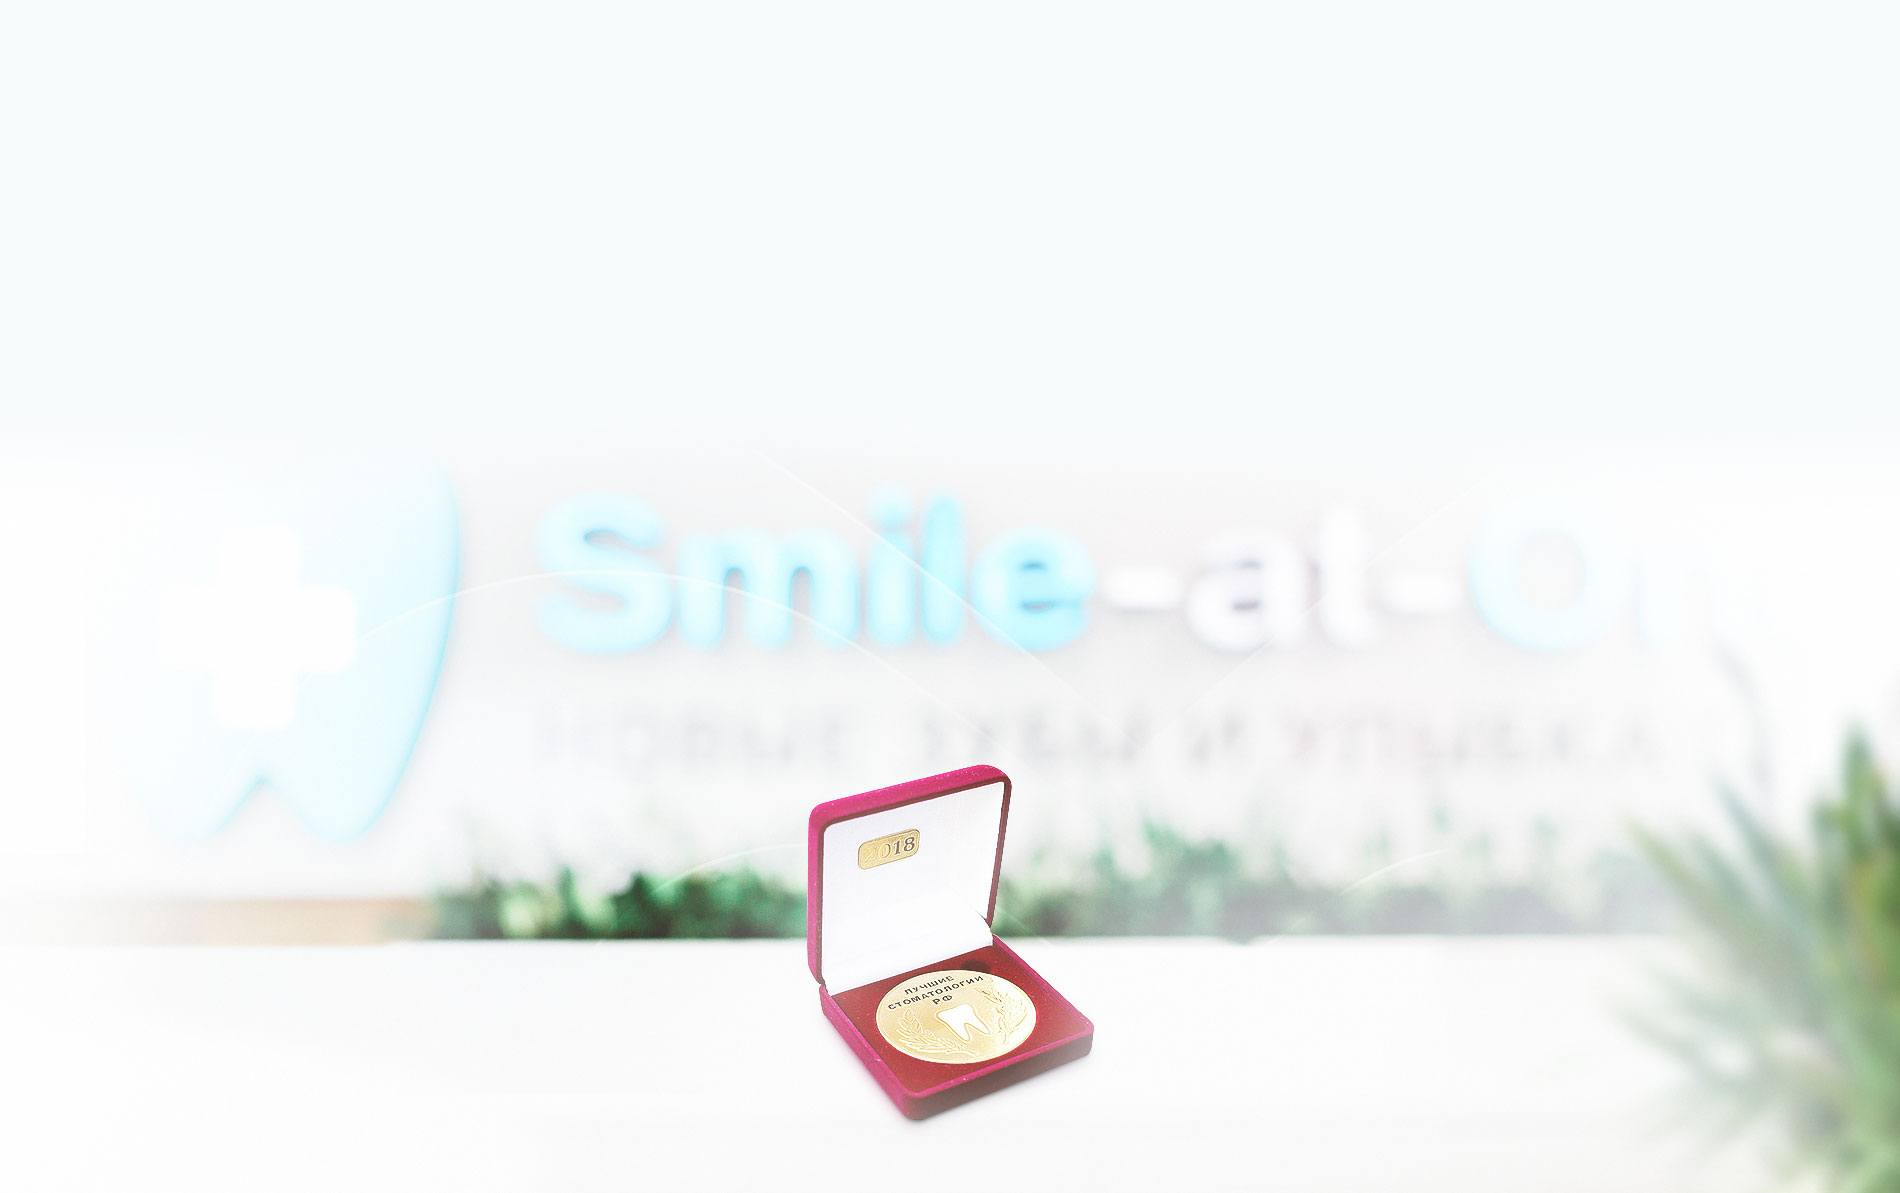
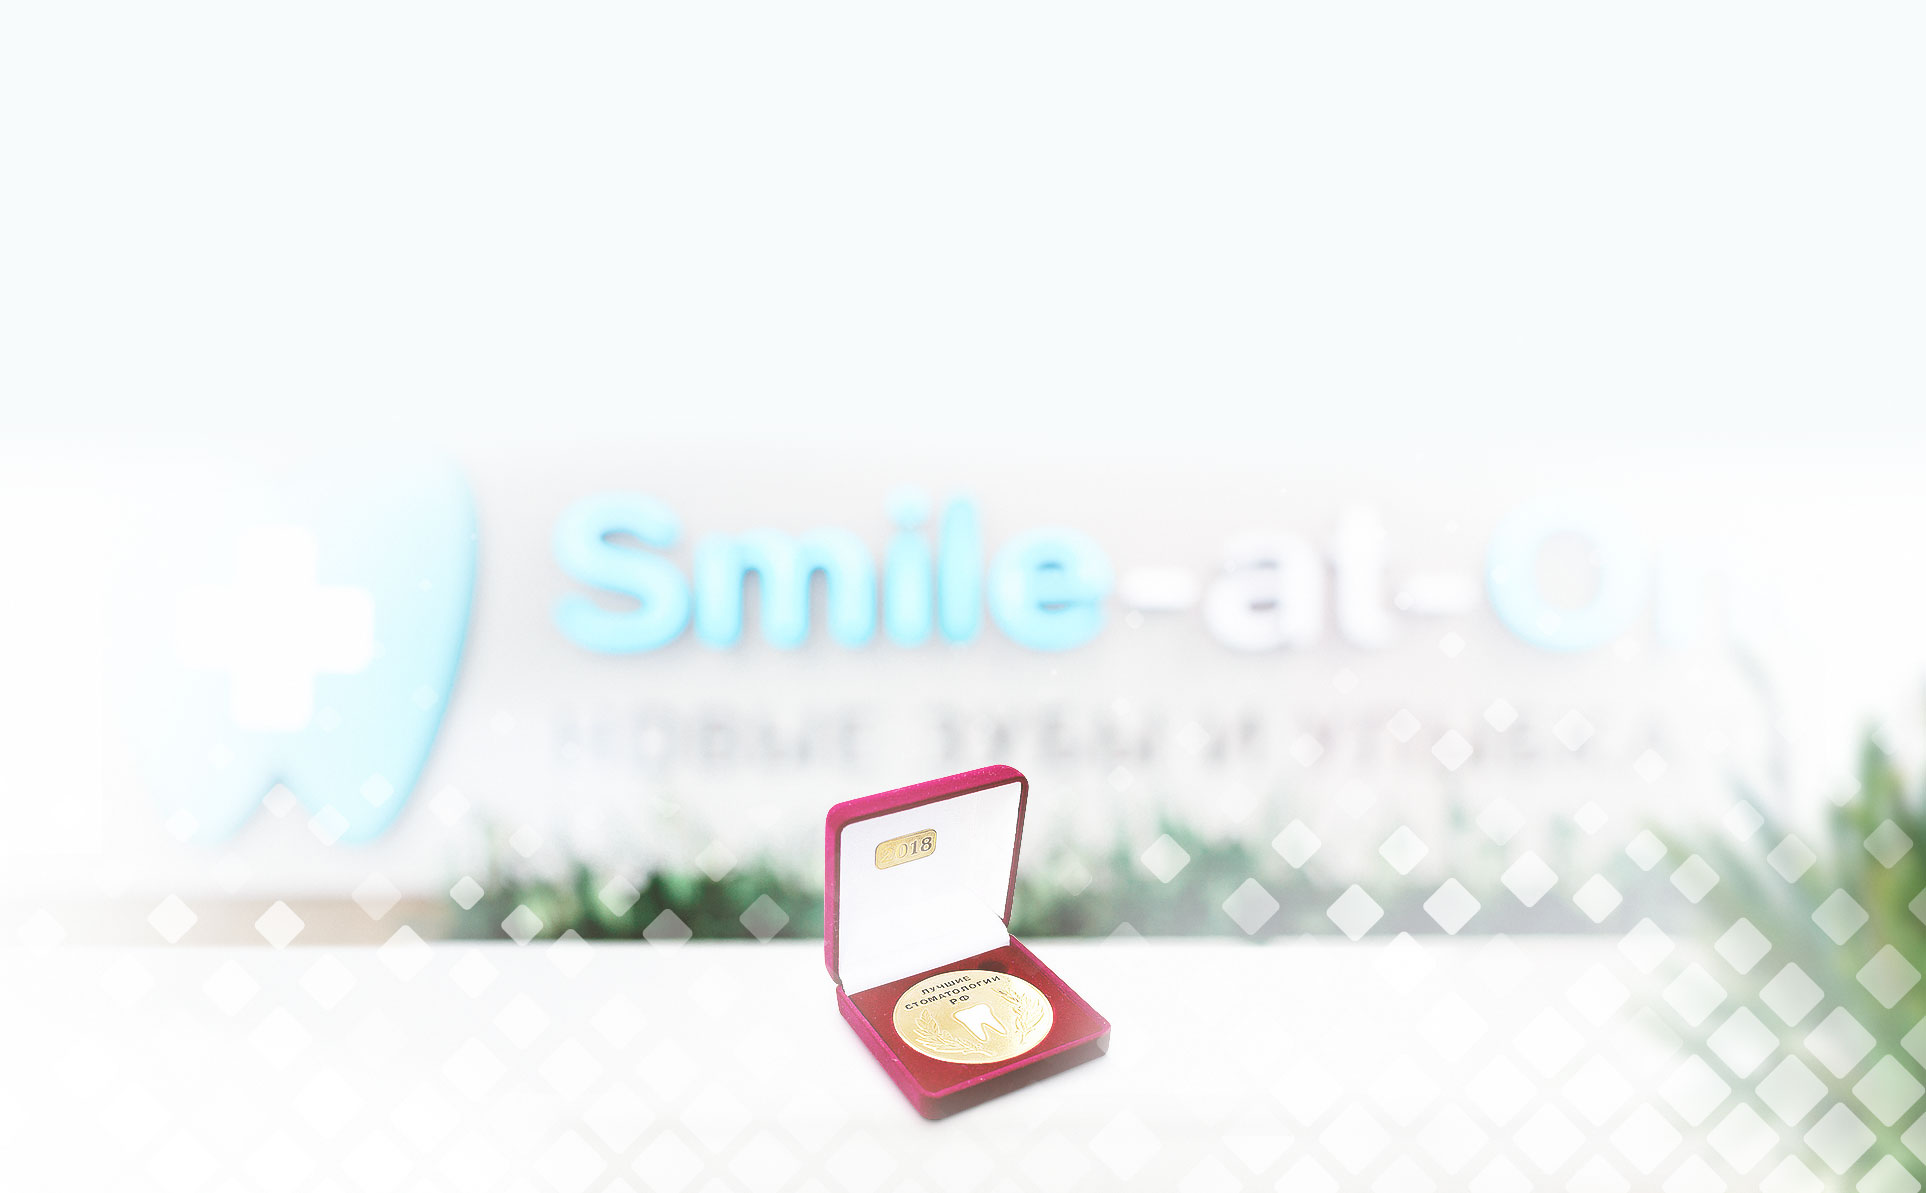
2.5 - new home page bg-s

diff --git a/css/main.css b/css/main.css
@@ -9080,7 +9080,7 @@
   background-repeat: no-repeat;
   background-position: center top;
   background-size: cover;
-  min-height: 780px;
+  min-height: 776px;
   padding-top: 90px;
   padding-bottom: 130px;
   overflow: hidden;
@@ -9107,6 +9107,7 @@
     border-radius: 0;
     padding-bottom: 20px;
     background: #f8fbfc;
+    background-image: none !important;
     min-height: initial;
   }
 }

diff --git a/sass/pages/_home.scss b/sass/pages/_home.scss
@@ -1029,7 +1029,7 @@
 	background-repeat: no-repeat;
 	background-position: center top;
 	background-size: cover;
-	min-height: 780px;
+	min-height: 776px;
 	padding-top: 90px;
 	padding-bottom: 130px;
 	overflow: hidden;
@@ -1047,6 +1047,7 @@
 		border-radius: 0;
 		padding-bottom: 20px;
 		background: $bg-color;
+		background-image: none !important;
 		min-height: initial;
 	}
 

diff --git a/js/main.js b/js/main.js
@@ -465,8 +465,8 @@ $(function($){
 	$(".stars-rating").starRating({
 		useFullStars: true,
 		emptyColor: '#cedae1',
-		hoverColor: '#72dbd4',
-		activeColor: '#72dbd4',
+		hoverColor: '#239ca3',
+		activeColor: '#239ca3',
 		ratedColor: '#239ca3',
 		disableAfterRate: false,
 		starSize: 24,

diff --git a/reviews.php b/reviews.php
@@ -87,18 +87,19 @@
 <section class="s-reviews-list">
 	<div class="container">
 		<div class="h1 sec-title">Все отзывы <span class="reviews-title-counter">1765</span></div>
+
 		<div class="row review-intro-list">
 			<div class="grid-4 grid-6_l grid-12_s review-intro-wrap">
 				<div class="review-intro review-intro--video">
-					<a href="#" class="review-intro__title">«Трансформация улыбки»: интервью Ольги Пыховой после первой коррекции протеза</a>
-					<a href="#" class="review-intro__screen">
+					<a href="/reviews-video.php" class="review-intro__title">«Трансформация улыбки»: интервью Ольги Пыховой после первой коррекции протеза</a>
+					<a href="/reviews-video.php" class="review-intro__screen">
 						<img src="/img/reviews/video-screen.jpg" alt="1">
 						<button class="play-btn"></button>
 					</a>
 					<footer class="review-intro__footer">
 						<time datetime="24-01-2019" class="review-intro__time">24.01.2019</time>
 						<div class="review-intro__type review-intro__type--video">Видеоотзыв</div>
-						<a href="#" class="review-intro__more">Стоимость и сроки</a>
+						<a href="/reviews-video.php" class="review-intro__more">Стоимость и сроки</a>
 					</footer>
 				</div>
 			</div>
@@ -129,15 +130,15 @@
 			</div>
 			<div class="grid-4 grid-6_l grid-12_s review-intro-wrap">
 				<div class="review-intro review-intro--video">
-					<a href="#" class="review-intro__title">«Трансформация улыбки»: интервью Ольги Пыховой после первой коррекции протеза</a>
-					<a href="#" class="review-intro__screen">
+					<a href="/reviews-video.php" class="review-intro__title">«Трансформация улыбки»: интервью Ольги Пыховой после первой коррекции протеза</a>
+					<a href="/reviews-video.php" class="review-intro__screen">
 						<img src="/img/reviews/video-screen.jpg" alt="1">
 						<button class="play-btn"></button>
 					</a>
 					<footer class="review-intro__footer">
 						<time datetime="24-01-2019" class="review-intro__time">24.01.2019</time>
 						<div class="review-intro__type review-intro__type--video">Видеоотзыв</div>
-						<a href="#" class="review-intro__more">Стоимость и сроки</a>
+						<a href="/reviews-video.php" class="review-intro__more">Стоимость и сроки</a>
 					</footer>
 				</div>
 			</div>
@@ -157,27 +158,27 @@
 			</div>
 			<div class="grid-4 grid-6_l grid-12_s review-intro-wrap">
 				<div class="review-intro review-intro--hand">
-					<a href="#" class="review-intro__paper">
+					<a href="/img/reviews/handwritten.jpg" class="review-intro__paper fancy">
 						<img src="/img/reviews/handwritten.jpg" alt="1">
 					</a>
 					<footer class="review-intro__footer">
 						<time datetime="24-01-2019" class="review-intro__time">24.01.2019</time>
 						<div class="review-intro__type review-intro__type--hand">Рукописный отзыв</div>
-						<a href="#" class="review-intro__more">Смотреть</a>
+						<a href="/img/reviews/handwritten.jpg" class="review-intro__more fancy">Смотреть</a>
 					</footer>
 				</div>
 			</div>
 			<div class="grid-4 grid-6_l grid-12_s review-intro-wrap">
 				<div class="review-intro review-intro--video">
-					<a href="#" class="review-intro__title">«Трансформация улыбки»: интервью Ольги Пыховой после первой коррекции протеза</a>
-					<a href="#" class="review-intro__screen">
+					<a href="/reviews-video.php" class="review-intro__title">«Трансформация улыбки»: интервью Ольги Пыховой после первой коррекции протеза</a>
+					<a href="/reviews-video.php" class="review-intro__screen">
 						<img src="/img/reviews/video-screen.jpg" alt="1">
 						<button class="play-btn"></button>
 					</a>
 					<footer class="review-intro__footer">
 						<time datetime="24-01-2019" class="review-intro__time">24.01.2019</time>
 						<div class="review-intro__type review-intro__type--video">Видеоотзыв</div>
-						<a href="#" class="review-intro__more">Стоимость и сроки</a>
+						<a href="/reviews-video.php" class="review-intro__more">Стоимость и сроки</a>
 					</footer>
 				</div>
 			</div>
@@ -208,29 +209,29 @@
 			</div>
 			<div class="grid-4 grid-6_l grid-12_s review-intro-wrap">
 				<div class="review-intro review-intro--video">
-					<a href="#" class="review-intro__title">«Трансформация улыбки»</a>
-					<a href="#" class="review-intro__screen">
+					<a href="/reviews-video.php" class="review-intro__title">«Трансформация улыбки»: интервью Ольги Пыховой после первой коррекции протеза</a>
+					<a href="/reviews-video.php" class="review-intro__screen">
 						<img src="/img/reviews/video-screen.jpg" alt="1">
 						<button class="play-btn"></button>
 					</a>
 					<footer class="review-intro__footer">
 						<time datetime="24-01-2019" class="review-intro__time">24.01.2019</time>
 						<div class="review-intro__type review-intro__type--video">Видеоотзыв</div>
-						<a href="#" class="review-intro__more">Стоимость и сроки</a>
+						<a href="/reviews-video.php" class="review-intro__more">Стоимость и сроки</a>
 					</footer>
 				</div>
 			</div>
 			<div class="grid-4 grid-6_l grid-12_s review-intro-wrap">
 				<div class="review-intro review-intro--video">
-					<a href="#" class="review-intro__title">«Трансформация улыбки»: интервью Ольги Пыховой после первой коррекции протеза</a>
-					<a href="#" class="review-intro__screen">
+					<a href="/reviews-video.php" class="review-intro__title">«Трансформация улыбки»: интервью Ольги Пыховой после первой коррекции протеза</a>
+					<a href="/reviews-video.php" class="review-intro__screen">
 						<img src="/img/reviews/video-screen.jpg" alt="1">
 						<button class="play-btn"></button>
 					</a>
 					<footer class="review-intro__footer">
 						<time datetime="24-01-2019" class="review-intro__time">24.01.2019</time>
 						<div class="review-intro__type review-intro__type--video">Видеоотзыв</div>
-						<a href="#" class="review-intro__more">Стоимость и сроки</a>
+						<a href="/reviews-video.php" class="review-intro__more">Стоимость и сроки</a>
 					</footer>
 				</div>
 			</div>
@@ -261,15 +262,15 @@
 			</div>
 			<div class="grid-4 grid-6_l grid-12_s review-intro-wrap">
 				<div class="review-intro review-intro--video">
-					<a href="#" class="review-intro__title">«Трансформация улыбки»: интервью Ольги Пыховой после первой коррекции протеза</a>
-					<a href="#" class="review-intro__screen">
+					<a href="/reviews-video.php" class="review-intro__title">«Трансформация улыбки»: интервью Ольги Пыховой после первой коррекции протеза</a>
+					<a href="/reviews-video.php" class="review-intro__screen">
 						<img src="/img/reviews/video-screen.jpg" alt="1">
 						<button class="play-btn"></button>
 					</a>
 					<footer class="review-intro__footer">
 						<time datetime="24-01-2019" class="review-intro__time">24.01.2019</time>
 						<div class="review-intro__type review-intro__type--video">Видеоотзыв</div>
-						<a href="#" class="review-intro__more">Стоимость и сроки</a>
+						<a href="/reviews-video.php" class="review-intro__more">Стоимость и сроки</a>
 					</footer>
 				</div>
 			</div>
@@ -289,27 +290,27 @@
 			</div>
 			<div class="grid-4 grid-6_l grid-12_s review-intro-wrap">
 				<div class="review-intro review-intro--hand">
-					<a href="#" class="review-intro__paper">
+					<a href="/img/reviews/handwritten.jpg" class="review-intro__paper fancy">
 						<img src="/img/reviews/handwritten.jpg" alt="1">
 					</a>
 					<footer class="review-intro__footer">
 						<time datetime="24-01-2019" class="review-intro__time">24.01.2019</time>
 						<div class="review-intro__type review-intro__type--hand">Рукописный отзыв</div>
-						<a href="#" class="review-intro__more">Смотреть</a>
+						<a href="/img/reviews/handwritten.jpg" class="review-intro__more fancy">Смотреть</a>
 					</footer>
 				</div>
 			</div>
 			<div class="grid-4 grid-6_l grid-12_s review-intro-wrap">
 				<div class="review-intro review-intro--video">
-					<a href="#" class="review-intro__title">«Трансформация улыбки»: интервью Ольги Пыховой после первой коррекции протеза</a>
-					<a href="#" class="review-intro__screen">
+					<a href="/reviews-video.php" class="review-intro__title">«Трансформация улыбки»: интервью Ольги Пыховой после первой коррекции протеза</a>
+					<a href="/reviews-video.php" class="review-intro__screen">
 						<img src="/img/reviews/video-screen.jpg" alt="1">
 						<button class="play-btn"></button>
 					</a>
 					<footer class="review-intro__footer">
 						<time datetime="24-01-2019" class="review-intro__time">24.01.2019</time>
 						<div class="review-intro__type review-intro__type--video">Видеоотзыв</div>
-						<a href="#" class="review-intro__more">Стоимость и сроки</a>
+						<a href="/reviews-video.php" class="review-intro__more">Стоимость и сроки</a>
 					</footer>
 				</div>
 			</div>
@@ -340,19 +341,20 @@
 			</div>
 			<div class="grid-4 grid-6_l grid-12_s review-intro-wrap">
 				<div class="review-intro review-intro--video">
-					<a href="#" class="review-intro__title">«Трансформация улыбки»: интервью Ольги Пыховой после первой коррекции протеза</a>
-					<a href="#" class="review-intro__screen">
+					<a href="/reviews-video.php" class="review-intro__title">«Трансформация улыбки»: интервью Ольги Пыховой после первой коррекции протеза</a>
+					<a href="/reviews-video.php" class="review-intro__screen">
 						<img src="/img/reviews/video-screen.jpg" alt="1">
 						<button class="play-btn"></button>
 					</a>
 					<footer class="review-intro__footer">
 						<time datetime="24-01-2019" class="review-intro__time">24.01.2019</time>
 						<div class="review-intro__type review-intro__type--video">Видеоотзыв</div>
-						<a href="#" class="review-intro__more">Стоимость и сроки</a>
+						<a href="/reviews-video.php" class="review-intro__more">Стоимость и сроки</a>
 					</footer>
 				</div>
 			</div>
 		</div>
+
 		<div class="pagination">
 			<div class="pagination__summary">Всего отзывов 765</div>
 			<button class="big-gray-btn pagination__load-more">Показать еще</button>
@@ -370,6 +372,7 @@
 				<a href="#" class="pagination__nav-btn">В конец</a>
 			</div>
 		</div>
+
 	</div>
 </section>
 
@@ -403,7 +406,7 @@
 	<div class="container">
 		<div class="bordered-block bordered-block--pink">
 			<form action="#" class="review-form">
-				<div class="h2 review-form__title">Поставьте свою оценку клинике по следующим критерия</div>
+				<div class="h2 review-form__title">Поставьте свою оценку клинике по следующим критериям</div>
 				<div class="row review-form__ratings">
 					<div class="grid-4 grid-6_s grid-12_xs">
 						<!-- Рейтинг из звезд записываетсся в соседний скрытый инпут-->
